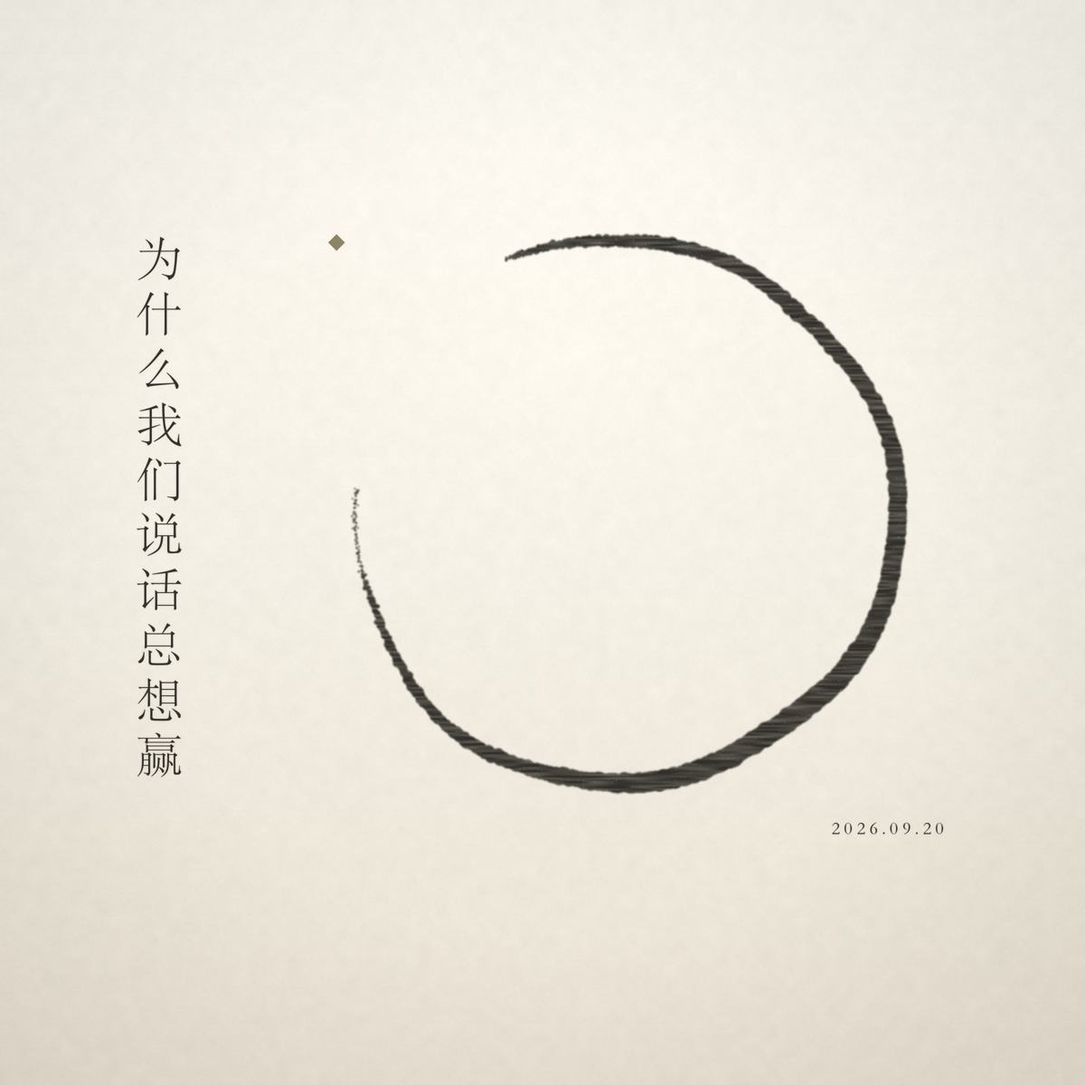
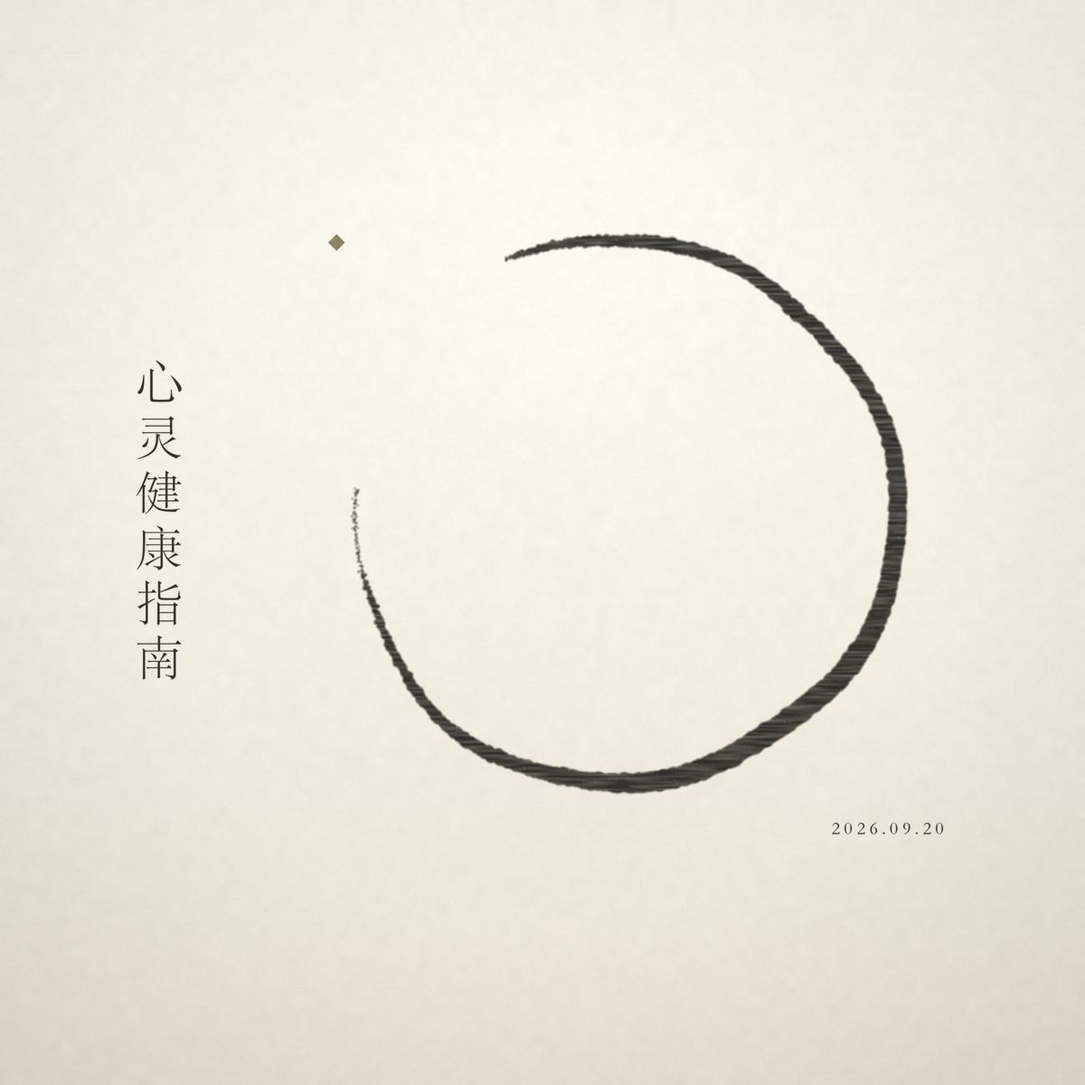
Deploying to gh-pages from @ XiaoCheng123/xiaocheng123.github.io@d7f1418c57a94d9e5b362c62e7cd2025c17e5cd7 🚀

Changed region(s): [[0.1233, 0.2158, 0.185, 0.7092]]

diff --git a/assets/index-f1d05fc9.js b/assets/index-f1d05fc9.js
@@ -3304,7 +3304,7 @@ No matching component was found for:
 	Copyright (c) 2018 Jed Watson.
 	Licensed under the MIT License (MIT), see
 	http://jedwatson.github.io/classnames
-*/(function(n){(function(){var e={}.hasOwnProperty;function t(){for(var i=[],r=0;r<arguments.length;r++){var s=arguments[r];if(s){var o=typeof s;if(o==="string"||o==="number")i.push(s);else if(Array.isArray(s)){if(s.length){var a=t.apply(null,s);a&&i.push(a)}}else if(o==="object"){if(s.toString!==Object.prototype.toString&&!s.toString.toString().includes("[native code]")){i.push(s.toString());continue}for(var l in s)e.call(s,l)&&s[l]&&i.push(l)}}}return i.join(" ")}n.exports?(t.default=t,n.exports=t):window.classNames=t})()})(FJ);var NJ=AS(I),mo=AS(ag),kJ=AS(mg);function AS(n){return n&&n.__esModule?n:{default:n}}const OJ=({animate:n=!0,className:e="",layout:t="2-columns",lineColor:i="#FFF",children:r})=>(typeof window=="object"&&document.documentElement.style.setProperty("--line-color",i),NJ.default.createElement("div",{className:(0,kJ.default)(e,"vertical-timeline",{"vertical-timeline--animate":n,"vertical-timeline--two-columns":t==="2-columns","vertical-timeline--one-column-left":t==="1-column"||t==="1-column-left","vertical-timeline--one-column-right":t==="1-column-right"})},r));OJ.propTypes={children:mo.default.oneOfType([mo.default.arrayOf(mo.default.node),mo.default.node]).isRequired,className:mo.default.string,animate:mo.default.bool,layout:mo.default.oneOf(["1-column-left","1-column","2-columns","1-column-right"]),lineColor:mo.default.string};function o_(){return o_=Object.assign||function(n){for(var e=1;e<arguments.length;e++){var t=arguments[e];for(var i in t)Object.prototype.hasOwnProperty.call(t,i)&&(n[i]=t[i])}return n},o_.apply(this,arguments)}function UJ(n,e){n.prototype=Object.create(e.prototype),n.prototype.constructor=n,a_(n,e)}function a_(n,e){return a_=Object.setPrototypeOf||function(i,r){return i.__proto__=r,i},a_(n,e)}function zJ(n,e){if(n==null)return{};var t={},i=Object.keys(n),r,s;for(s=0;s<i.length;s++)r=i[s],!(e.indexOf(r)>=0)&&(t[r]=n[r]);return t}var l_=new Map,tm=new WeakMap,Pb=0,VL=void 0;function GJ(n){VL=n}function HJ(n){return n?(tm.has(n)||(Pb+=1,tm.set(n,Pb.toString())),tm.get(n)):"0"}function VJ(n){return Object.keys(n).sort().filter(function(e){return n[e]!==void 0}).map(function(e){return e+"_"+(e==="root"?HJ(n.root):n[e])}).toString()}function WJ(n){var e=VJ(n),t=l_.get(e);if(!t){var i=new Map,r,s=new IntersectionObserver(function(o){o.forEach(function(a){var l,c=a.isIntersecting&&r.some(function(d){return a.intersectionRatio>=d});n.trackVisibility&&typeof a.isVisible>"u"&&(a.isVisible=c),(l=i.get(a.target))==null||l.forEach(function(d){d(c,a)})})},n);r=s.thresholds||(Array.isArray(n.threshold)?n.threshold:[n.threshold||0]),t={id:e,observer:s,elements:i},l_.set(e,t)}return t}function CS(n,e,t,i){if(t===void 0&&(t={}),i===void 0&&(i=VL),typeof window.IntersectionObserver>"u"&&i!==void 0){var r=n.getBoundingClientRect();return e(i,{isIntersecting:i,target:n,intersectionRatio:typeof t.threshold=="number"?t.threshold:0,time:0,boundingClientRect:r,intersectionRect:r,rootBounds:r}),function(){}}var s=WJ(t),o=s.id,a=s.observer,l=s.elements,c=l.get(n)||[];return l.has(n)||l.set(n,c),c.push(e),a.observe(n),function(){c.splice(c.indexOf(e),1),c.length===0&&(l.delete(n),a.unobserve(n)),l.size===0&&(a.disconnect(),l_.delete(o))}}var jJ=["children","as","triggerOnce","threshold","root","rootMargin","onChange","skip","trackVisibility","delay","initialInView","fallbackInView"];function Bb(n){return typeof n.children!="function"}var gg=function(n){UJ(e,n);function e(i){var r;return r=n.call(this,i)||this,r.node=null,r._unobserveCb=null,r.handleNode=function(s){r.node&&(r.unobserve(),!s&&!r.props.triggerOnce&&!r.props.skip&&r.setState({inView:!!r.props.initialInView,entry:void 0})),r.node=s||null,r.observeNode()},r.handleChange=function(s,o){s&&r.props.triggerOnce&&r.unobserve(),Bb(r.props)||r.setState({inView:s,entry:o}),r.props.onChange&&r.props.onChange(s,o)},r.state={inView:!!i.initialInView,entry:void 0},r}var t=e.prototype;return t.componentDidUpdate=function(r){(r.rootMargin!==this.props.rootMargin||r.root!==this.props.root||r.threshold!==this.props.threshold||r.skip!==this.props.skip||r.trackVisibility!==this.props.trackVisibility||r.delay!==this.props.delay)&&(this.unobserve(),this.observeNode())},t.componentWillUnmount=function(){this.unobserve(),this.node=null},t.observeNode=function(){if(!(!this.node||this.props.skip)){var r=this.props,s=r.threshold,o=r.root,a=r.rootMargin,l=r.trackVisibility,c=r.delay,d=r.fallbackInView;this._unobserveCb=CS(this.node,this.handleChange,{threshold:s,root:o,rootMargin:a,trackVisibility:l,delay:c},d)}},t.unobserve=function(){this._unobserveCb&&(this._unobserveCb(),this._unobserveCb=null)},t.render=function(){if(!Bb(this.props)){var r=this.state,s=r.inView,o=r.entry;return this.props.children({inView:s,entry:o,ref:this.handleNode})}var a=this.props,l=a.children,c=a.as,d=zJ(a,jJ);return I.createElement(c||"div",o_({ref:this.handleNode},d),l)},e}(I.Component);gg.displayName="InView";gg.defaultProps={threshold:0,triggerOnce:!1,initialInView:!1};function JJ(n){var e=n===void 0?{}:n,t=e.threshold,i=e.delay,r=e.trackVisibility,s=e.rootMargin,o=e.root,a=e.triggerOnce,l=e.skip,c=e.initialInView,d=e.fallbackInView,h=I.useRef(),p=I.useState({inView:!!c}),m=p[0],y=p[1],v=I.useCallback(function(_){h.current!==void 0&&(h.current(),h.current=void 0),!l&&_&&(h.current=CS(_,function(M,w){y({inView:M,entry:w}),w.isIntersecting&&a&&h.current&&(h.current(),h.current=void 0)},{root:o,rootMargin:s,threshold:t,trackVisibility:r,delay:i},d))},[Array.isArray(t)?t.toString():t,o,s,a,l,r,d,i]);I.useEffect(function(){!h.current&&m.entry&&!a&&!l&&y({inView:!!c})});var x=[v,m.inView,m.entry];return x.ref=x[0],x.inView=x[1],x.entry=x[2],x}const XJ=Object.freeze(Object.defineProperty({__proto__:null,InView:gg,default:gg,defaultFallbackInView:GJ,observe:CS,useInView:JJ},Symbol.toStringTag,{value:"Module"})),KJ=HI(XJ);var go=ES(I),Qt=ES(ag),nm=ES(mg),YJ=KJ;function ES(n){return n&&n.__esModule?n:{default:n}}const QJ=({children:n="",className:e="",contentArrowStyle:t=null,contentStyle:i=null,date:r="",dateClassName:s="",icon:o=null,iconClassName:a="",iconOnClick:l=null,onTimelineElementClick:c=null,iconStyle:d=null,id:h="",position:p="",style:m=null,textClassName:y="",intersectionObserverProps:v={rootMargin:"0px 0px -40px 0px",triggerOnce:!0},visible:x=!1})=>go.default.createElement(YJ.InView,v,({inView:_,ref:M})=>go.default.createElement("div",{ref:M,id:h,className:(0,nm.default)(e,"vertical-timeline-element",{"vertical-timeline-element--left":p==="left","vertical-timeline-element--right":p==="right","vertical-timeline-element--no-children":n===""}),style:m},go.default.createElement(go.default.Fragment,null,go.default.createElement("span",{style:d,onClick:l,className:(0,nm.default)(a,"vertical-timeline-element-icon",{"bounce-in":_||x,"is-hidden":!(_||x)})},o),go.default.createElement("div",{style:i,onClick:c,className:(0,nm.default)(y,"vertical-timeline-element-content",{"bounce-in":_||x,"is-hidden":!(_||x)})},go.default.createElement("div",{style:t,className:"vertical-timeline-element-content-arrow"}),n,go.default.createElement("span",{className:(0,nm.default)(s,"vertical-timeline-element-date")},r)))));QJ.propTypes={children:Qt.default.oneOfType([Qt.default.arrayOf(Qt.default.node),Qt.default.node]),className:Qt.default.string,contentArrowStyle:Qt.default.shape({}),contentStyle:Qt.default.shape({}),date:Qt.default.node,dateClassName:Qt.default.string,icon:Qt.default.element,iconClassName:Qt.default.string,iconStyle:Qt.default.shape({}),iconOnClick:Qt.default.func,onTimelineElementClick:Qt.default.func,id:Qt.default.string,position:Qt.default.string,style:Qt.default.shape({}),textClassName:Qt.default.string,visible:Qt.default.bool,intersectionObserverProps:Qt.default.shape({root:Qt.default.object,rootMargin:Qt.default.string,threshold:Qt.default.number,triggerOnce:Qt.default.bool})};const md={_origin:"https://api.emailjs.com"},ZJ=(n,e="https://api.emailjs.com")=>{md._userID=n,md._origin=e},WL=(n,e,t)=>{if(!n)throw"The public key is required. Visit https://dashboard.emailjs.com/admin/account";if(!e)throw"The service ID is required. Visit https://dashboard.emailjs.com/admin";if(!t)throw"The template ID is required. Visit https://dashboard.emailjs.com/admin/templates";return!0};class Rb{constructor(e){this.status=e?e.status:0,this.text=e?e.responseText:"Network Error"}}const jL=(n,e,t={})=>new Promise((i,r)=>{const s=new XMLHttpRequest;s.addEventListener("load",({target:o})=>{const a=new Rb(o);a.status===200||a.text==="OK"?i(a):r(a)}),s.addEventListener("error",({target:o})=>{r(new Rb(o))}),s.open("POST",md._origin+n,!0),Object.keys(t).forEach(o=>{s.setRequestHeader(o,t[o])}),s.send(e)}),qJ=(n,e,t,i)=>{const r=i||md._userID;return WL(r,n,e),jL("/api/v1.0/email/send",JSON.stringify({lib_version:"3.10.0",user_id:r,service_id:n,template_id:e,template_params:t}),{"Content-type":"application/json"})},$J=n=>{let e;if(typeof n=="string"?e=document.querySelector(n):e=n,!e||e.nodeName!=="FORM")throw"The 3rd parameter is expected to be the HTML form element or the style selector of form";return e},eX=(n,e,t,i)=>{const r=i||md._userID,s=$J(t);WL(r,n,e);const o=new FormData(s);return o.append("lib_version","3.10.0"),o.append("service_id",n),o.append("template_id",e),o.append("user_id",r),jL("/api/v1.0/email/send-form",o)},tX={init:ZJ,send:qJ,sendForm:eX},nX=()=>{const n=I.useRef(),[e,t]=I.useState({name:"",email:"",message:""}),[i,r]=I.useState(!1),s=a=>{const{name:l,value:c}=a.target;t({...e,[l]:c})},o=a=>{a.preventDefault(),r(!0),tX.send("service_14dqsuc","template_uh8ui7s",{form_name:e.name,to_name:"Xiaocheng",from_email:e.email,to_email:"contact@mail.com",message:e.message},"OcgvyN5NpkEfPi4KH").then(()=>{r(!1),alert("Thank you. I will get back to you as soon as possible."),t({name:"",email:"",message:""})},l=>{r(!1),console.log(l),alert("Something went wrong.")})};return qe("div",{className:"xl:mt-12 flex xl:flex-row flex-col-reverse gap-10 overflow-hidden",children:[qe(Dt.div,{variants:bb("left","tween",.2,1),className:"flex-[0.75] bg-black-100 p-8 rounded-2xl",children:[$("p",{className:Gs.sectionSubText,children:"Get in touch"}),$("h3",{className:Gs.sectionHeadText,children:"Contact."}),qe("form",{ref:n,onSubmit:o,className:"mt-12 flex flex-col gap-8",children:[qe("label",{className:"flex flex-col",children:[$("span",{className:"text-white font-medium mb-4",children:"Your Name"}),$("input",{type:"text",name:"name",value:e.name,onChange:s,placeholder:"What's your name?",className:"bg-tertiary py-4 px-6 placeholder:text-secondary text-white rounded-lg outline-none border-none font-medium"})]}),qe("label",{className:"flex flex-col",children:[$("span",{className:"text-white font-medium mb-4",children:"Your email"}),$("input",{type:"email",name:"email",value:e.email,onChange:s,placeholder:"What's your email?",className:"bg-tertiary py-4 px-6 placeholder:text-secondary text-white rounded-lg outline-none border-none font-medium"})]}),qe("label",{className:"flex flex-col",children:[$("span",{className:"text-white font-medium mb-4",children:"Your Message"}),$("textarea",{rows:7,name:"message",value:e.message,onChange:s,placeholder:"What do you want to say?",className:"bg-tertiary py-4 px-6 placeholder:text-secondary text-white rounded-lg outline-none border-none font-medium"})]}),$("button",{type:"submit",className:"bg-tertiary py-3 px-8 rounded-xl outline-none w-fit text-white font-bold shadow-md shadow-primary",children:i?"Sending...":"Send"})]})]}),$(Dt.div,{variants:bb("right","tween",.2,1),className:"xl:flex-1 xl:h-auto md:h-[550px] h-[350px]",children:$(x8,{})})]})},iX=HL(nX,"contact"),JL=[{slug:"2026-9-20",title:"为什么我们说话，总想赢",subtitle:"一个亚健康者的自白",date:"2026.09.20",location:"深圳 · 秋夜",cover:"/blog/2026-9-20-cover.jpg",shareCover:"/blog/2026-9-20-share.jpg",shareTitle:"为什么我们说话，总想赢",shareDesc:"逻辑不是钥匙，有时候它就是门栓。",excerpt:"我发现自己一直在用逻辑去堵住别人。后来才明白：一个人在情绪里的时候，你把道理讲得越对，他关得越紧。逻辑不是钥匙，有时候它就是门栓。",content:`有很长一段时间，我以为自己是个讲道理的人。
+*/(function(n){(function(){var e={}.hasOwnProperty;function t(){for(var i=[],r=0;r<arguments.length;r++){var s=arguments[r];if(s){var o=typeof s;if(o==="string"||o==="number")i.push(s);else if(Array.isArray(s)){if(s.length){var a=t.apply(null,s);a&&i.push(a)}}else if(o==="object"){if(s.toString!==Object.prototype.toString&&!s.toString.toString().includes("[native code]")){i.push(s.toString());continue}for(var l in s)e.call(s,l)&&s[l]&&i.push(l)}}}return i.join(" ")}n.exports?(t.default=t,n.exports=t):window.classNames=t})()})(FJ);var NJ=AS(I),mo=AS(ag),kJ=AS(mg);function AS(n){return n&&n.__esModule?n:{default:n}}const OJ=({animate:n=!0,className:e="",layout:t="2-columns",lineColor:i="#FFF",children:r})=>(typeof window=="object"&&document.documentElement.style.setProperty("--line-color",i),NJ.default.createElement("div",{className:(0,kJ.default)(e,"vertical-timeline",{"vertical-timeline--animate":n,"vertical-timeline--two-columns":t==="2-columns","vertical-timeline--one-column-left":t==="1-column"||t==="1-column-left","vertical-timeline--one-column-right":t==="1-column-right"})},r));OJ.propTypes={children:mo.default.oneOfType([mo.default.arrayOf(mo.default.node),mo.default.node]).isRequired,className:mo.default.string,animate:mo.default.bool,layout:mo.default.oneOf(["1-column-left","1-column","2-columns","1-column-right"]),lineColor:mo.default.string};function o_(){return o_=Object.assign||function(n){for(var e=1;e<arguments.length;e++){var t=arguments[e];for(var i in t)Object.prototype.hasOwnProperty.call(t,i)&&(n[i]=t[i])}return n},o_.apply(this,arguments)}function UJ(n,e){n.prototype=Object.create(e.prototype),n.prototype.constructor=n,a_(n,e)}function a_(n,e){return a_=Object.setPrototypeOf||function(i,r){return i.__proto__=r,i},a_(n,e)}function zJ(n,e){if(n==null)return{};var t={},i=Object.keys(n),r,s;for(s=0;s<i.length;s++)r=i[s],!(e.indexOf(r)>=0)&&(t[r]=n[r]);return t}var l_=new Map,tm=new WeakMap,Pb=0,VL=void 0;function GJ(n){VL=n}function HJ(n){return n?(tm.has(n)||(Pb+=1,tm.set(n,Pb.toString())),tm.get(n)):"0"}function VJ(n){return Object.keys(n).sort().filter(function(e){return n[e]!==void 0}).map(function(e){return e+"_"+(e==="root"?HJ(n.root):n[e])}).toString()}function WJ(n){var e=VJ(n),t=l_.get(e);if(!t){var i=new Map,r,s=new IntersectionObserver(function(o){o.forEach(function(a){var l,c=a.isIntersecting&&r.some(function(d){return a.intersectionRatio>=d});n.trackVisibility&&typeof a.isVisible>"u"&&(a.isVisible=c),(l=i.get(a.target))==null||l.forEach(function(d){d(c,a)})})},n);r=s.thresholds||(Array.isArray(n.threshold)?n.threshold:[n.threshold||0]),t={id:e,observer:s,elements:i},l_.set(e,t)}return t}function CS(n,e,t,i){if(t===void 0&&(t={}),i===void 0&&(i=VL),typeof window.IntersectionObserver>"u"&&i!==void 0){var r=n.getBoundingClientRect();return e(i,{isIntersecting:i,target:n,intersectionRatio:typeof t.threshold=="number"?t.threshold:0,time:0,boundingClientRect:r,intersectionRect:r,rootBounds:r}),function(){}}var s=WJ(t),o=s.id,a=s.observer,l=s.elements,c=l.get(n)||[];return l.has(n)||l.set(n,c),c.push(e),a.observe(n),function(){c.splice(c.indexOf(e),1),c.length===0&&(l.delete(n),a.unobserve(n)),l.size===0&&(a.disconnect(),l_.delete(o))}}var jJ=["children","as","triggerOnce","threshold","root","rootMargin","onChange","skip","trackVisibility","delay","initialInView","fallbackInView"];function Bb(n){return typeof n.children!="function"}var gg=function(n){UJ(e,n);function e(i){var r;return r=n.call(this,i)||this,r.node=null,r._unobserveCb=null,r.handleNode=function(s){r.node&&(r.unobserve(),!s&&!r.props.triggerOnce&&!r.props.skip&&r.setState({inView:!!r.props.initialInView,entry:void 0})),r.node=s||null,r.observeNode()},r.handleChange=function(s,o){s&&r.props.triggerOnce&&r.unobserve(),Bb(r.props)||r.setState({inView:s,entry:o}),r.props.onChange&&r.props.onChange(s,o)},r.state={inView:!!i.initialInView,entry:void 0},r}var t=e.prototype;return t.componentDidUpdate=function(r){(r.rootMargin!==this.props.rootMargin||r.root!==this.props.root||r.threshold!==this.props.threshold||r.skip!==this.props.skip||r.trackVisibility!==this.props.trackVisibility||r.delay!==this.props.delay)&&(this.unobserve(),this.observeNode())},t.componentWillUnmount=function(){this.unobserve(),this.node=null},t.observeNode=function(){if(!(!this.node||this.props.skip)){var r=this.props,s=r.threshold,o=r.root,a=r.rootMargin,l=r.trackVisibility,c=r.delay,d=r.fallbackInView;this._unobserveCb=CS(this.node,this.handleChange,{threshold:s,root:o,rootMargin:a,trackVisibility:l,delay:c},d)}},t.unobserve=function(){this._unobserveCb&&(this._unobserveCb(),this._unobserveCb=null)},t.render=function(){if(!Bb(this.props)){var r=this.state,s=r.inView,o=r.entry;return this.props.children({inView:s,entry:o,ref:this.handleNode})}var a=this.props,l=a.children,c=a.as,d=zJ(a,jJ);return I.createElement(c||"div",o_({ref:this.handleNode},d),l)},e}(I.Component);gg.displayName="InView";gg.defaultProps={threshold:0,triggerOnce:!1,initialInView:!1};function JJ(n){var e=n===void 0?{}:n,t=e.threshold,i=e.delay,r=e.trackVisibility,s=e.rootMargin,o=e.root,a=e.triggerOnce,l=e.skip,c=e.initialInView,d=e.fallbackInView,h=I.useRef(),p=I.useState({inView:!!c}),m=p[0],y=p[1],v=I.useCallback(function(_){h.current!==void 0&&(h.current(),h.current=void 0),!l&&_&&(h.current=CS(_,function(M,w){y({inView:M,entry:w}),w.isIntersecting&&a&&h.current&&(h.current(),h.current=void 0)},{root:o,rootMargin:s,threshold:t,trackVisibility:r,delay:i},d))},[Array.isArray(t)?t.toString():t,o,s,a,l,r,d,i]);I.useEffect(function(){!h.current&&m.entry&&!a&&!l&&y({inView:!!c})});var x=[v,m.inView,m.entry];return x.ref=x[0],x.inView=x[1],x.entry=x[2],x}const XJ=Object.freeze(Object.defineProperty({__proto__:null,InView:gg,default:gg,defaultFallbackInView:GJ,observe:CS,useInView:JJ},Symbol.toStringTag,{value:"Module"})),KJ=HI(XJ);var go=ES(I),Qt=ES(ag),nm=ES(mg),YJ=KJ;function ES(n){return n&&n.__esModule?n:{default:n}}const QJ=({children:n="",className:e="",contentArrowStyle:t=null,contentStyle:i=null,date:r="",dateClassName:s="",icon:o=null,iconClassName:a="",iconOnClick:l=null,onTimelineElementClick:c=null,iconStyle:d=null,id:h="",position:p="",style:m=null,textClassName:y="",intersectionObserverProps:v={rootMargin:"0px 0px -40px 0px",triggerOnce:!0},visible:x=!1})=>go.default.createElement(YJ.InView,v,({inView:_,ref:M})=>go.default.createElement("div",{ref:M,id:h,className:(0,nm.default)(e,"vertical-timeline-element",{"vertical-timeline-element--left":p==="left","vertical-timeline-element--right":p==="right","vertical-timeline-element--no-children":n===""}),style:m},go.default.createElement(go.default.Fragment,null,go.default.createElement("span",{style:d,onClick:l,className:(0,nm.default)(a,"vertical-timeline-element-icon",{"bounce-in":_||x,"is-hidden":!(_||x)})},o),go.default.createElement("div",{style:i,onClick:c,className:(0,nm.default)(y,"vertical-timeline-element-content",{"bounce-in":_||x,"is-hidden":!(_||x)})},go.default.createElement("div",{style:t,className:"vertical-timeline-element-content-arrow"}),n,go.default.createElement("span",{className:(0,nm.default)(s,"vertical-timeline-element-date")},r)))));QJ.propTypes={children:Qt.default.oneOfType([Qt.default.arrayOf(Qt.default.node),Qt.default.node]),className:Qt.default.string,contentArrowStyle:Qt.default.shape({}),contentStyle:Qt.default.shape({}),date:Qt.default.node,dateClassName:Qt.default.string,icon:Qt.default.element,iconClassName:Qt.default.string,iconStyle:Qt.default.shape({}),iconOnClick:Qt.default.func,onTimelineElementClick:Qt.default.func,id:Qt.default.string,position:Qt.default.string,style:Qt.default.shape({}),textClassName:Qt.default.string,visible:Qt.default.bool,intersectionObserverProps:Qt.default.shape({root:Qt.default.object,rootMargin:Qt.default.string,threshold:Qt.default.number,triggerOnce:Qt.default.bool})};const md={_origin:"https://api.emailjs.com"},ZJ=(n,e="https://api.emailjs.com")=>{md._userID=n,md._origin=e},WL=(n,e,t)=>{if(!n)throw"The public key is required. Visit https://dashboard.emailjs.com/admin/account";if(!e)throw"The service ID is required. Visit https://dashboard.emailjs.com/admin";if(!t)throw"The template ID is required. Visit https://dashboard.emailjs.com/admin/templates";return!0};class Rb{constructor(e){this.status=e?e.status:0,this.text=e?e.responseText:"Network Error"}}const jL=(n,e,t={})=>new Promise((i,r)=>{const s=new XMLHttpRequest;s.addEventListener("load",({target:o})=>{const a=new Rb(o);a.status===200||a.text==="OK"?i(a):r(a)}),s.addEventListener("error",({target:o})=>{r(new Rb(o))}),s.open("POST",md._origin+n,!0),Object.keys(t).forEach(o=>{s.setRequestHeader(o,t[o])}),s.send(e)}),qJ=(n,e,t,i)=>{const r=i||md._userID;return WL(r,n,e),jL("/api/v1.0/email/send",JSON.stringify({lib_version:"3.10.0",user_id:r,service_id:n,template_id:e,template_params:t}),{"Content-type":"application/json"})},$J=n=>{let e;if(typeof n=="string"?e=document.querySelector(n):e=n,!e||e.nodeName!=="FORM")throw"The 3rd parameter is expected to be the HTML form element or the style selector of form";return e},eX=(n,e,t,i)=>{const r=i||md._userID,s=$J(t);WL(r,n,e);const o=new FormData(s);return o.append("lib_version","3.10.0"),o.append("service_id",n),o.append("template_id",e),o.append("user_id",r),jL("/api/v1.0/email/send-form",o)},tX={init:ZJ,send:qJ,sendForm:eX},nX=()=>{const n=I.useRef(),[e,t]=I.useState({name:"",email:"",message:""}),[i,r]=I.useState(!1),s=a=>{const{name:l,value:c}=a.target;t({...e,[l]:c})},o=a=>{a.preventDefault(),r(!0),tX.send("service_14dqsuc","template_uh8ui7s",{form_name:e.name,to_name:"Xiaocheng",from_email:e.email,to_email:"contact@mail.com",message:e.message},"OcgvyN5NpkEfPi4KH").then(()=>{r(!1),alert("Thank you. I will get back to you as soon as possible."),t({name:"",email:"",message:""})},l=>{r(!1),console.log(l),alert("Something went wrong.")})};return qe("div",{className:"xl:mt-12 flex xl:flex-row flex-col-reverse gap-10 overflow-hidden",children:[qe(Dt.div,{variants:bb("left","tween",.2,1),className:"flex-[0.75] bg-black-100 p-8 rounded-2xl",children:[$("p",{className:Gs.sectionSubText,children:"Get in touch"}),$("h3",{className:Gs.sectionHeadText,children:"Contact."}),qe("form",{ref:n,onSubmit:o,className:"mt-12 flex flex-col gap-8",children:[qe("label",{className:"flex flex-col",children:[$("span",{className:"text-white font-medium mb-4",children:"Your Name"}),$("input",{type:"text",name:"name",value:e.name,onChange:s,placeholder:"What's your name?",className:"bg-tertiary py-4 px-6 placeholder:text-secondary text-white rounded-lg outline-none border-none font-medium"})]}),qe("label",{className:"flex flex-col",children:[$("span",{className:"text-white font-medium mb-4",children:"Your email"}),$("input",{type:"email",name:"email",value:e.email,onChange:s,placeholder:"What's your email?",className:"bg-tertiary py-4 px-6 placeholder:text-secondary text-white rounded-lg outline-none border-none font-medium"})]}),qe("label",{className:"flex flex-col",children:[$("span",{className:"text-white font-medium mb-4",children:"Your Message"}),$("textarea",{rows:7,name:"message",value:e.message,onChange:s,placeholder:"What do you want to say?",className:"bg-tertiary py-4 px-6 placeholder:text-secondary text-white rounded-lg outline-none border-none font-medium"})]}),$("button",{type:"submit",className:"bg-tertiary py-3 px-8 rounded-xl outline-none w-fit text-white font-bold shadow-md shadow-primary",children:i?"Sending...":"Send"})]})]}),$(Dt.div,{variants:bb("right","tween",.2,1),className:"xl:flex-1 xl:h-auto md:h-[550px] h-[350px]",children:$(x8,{})})]})},iX=HL(nX,"contact"),JL=[{slug:"2026-9-20",title:"心灵健康指南",subtitle:"从亚健康到生病，中间隔着什么",date:"2026.09.20",location:"深圳 · 秋夜",cover:"/blog/2026-9-20-cover.jpg",shareCover:"/blog/2026-9-20-share.jpg",shareTitle:"心灵健康指南",shareDesc:"我们把道理讲得越对，对方关得越紧。一份写给亚健康者的心灵健康指南。",excerpt:"我一直以为自己是个讲道理的人，后来才发现，逻辑有时候不是钥匙，是门栓。这篇文章从一段自己的经历出发：往外看一层，是我们共同的说话方式；往里看一层，是心灵怎么一点点变累的；最后落到一份尽量能用、也尽量科学的指南。",content:`有很长一段时间，我以为自己是个讲道理的人。
 
 别人跟我诉苦，我先去找他话里的漏洞；别人情绪上来，我就一条一条把事实摆回去。我不觉得自己冷漠——恰恰相反，我觉得自己很负责：事情说清楚了，人才能好起来。
 
@@ -3312,9 +3312,13 @@ No matching component was found for:
 
 逻辑不是钥匙，有时候它就是门栓。
 
+这件事让我想了很久。先是想自己，再想我们这些说话的人，最后想到身体里到底发生了什么。
+
+所以下面分成三层：往外看一层，是我们共同的说话方式；往里看一层，是心灵是怎么一点点变累的。最后，落到一份尽量写得科学、也尽量能用的指南。
+
 ———
 
-一　我以为我在帮他
+一　起点：我用道理堵住了一个人
 
 我当时想得很简单：如果你说的事情不符合事实，那我把它纠正过来，你的痛苦就应该减轻一点。在我的世界里，这叫讲逻辑。
 
@@ -3326,29 +3330,7 @@ No matching component was found for:
 
 ———
 
-二　家里有人生病之后
-
-家里有人生病之后，我才开始真正去了解这些事。我老哥是全科医生，我去问他，他给我讲过一个很好记的分法。
-
-他说，精神疾病大致可以看成两条线：
-
-一条是认知出了问题——偏执，坚信一些旁人无法理解的东西，精神分裂常在这条线上；
-
-另一条是情感出了问题——情绪像脱了缰，一会儿在谷底，一会儿在峰顶，双相常在这条线上。
-
-这个分法很好记，我把它当成家人给我画的一张草图。但草图不是地图，更不能当尺子。抑郁、焦虑、PTSD、强迫，都塞不进这个框；双相的人也常常有认知上的损伤，精神分裂的人也常有情绪上的症状。医生面对的是一个人，不是一个标签。
-
-更要紧的是下面这一句，我花了很久才真的接受：
-
-他不是不想控制，他是控制不住。
-
-我一开始总以为，只要把道理讲通，他就能“想明白”；“想明白”了，就能“控制住”。这是我对生病这件事最大的误解。双相是一种有生理基础的病，是可以用药物控制的——像糖尿病需要胰岛素一样，它需要的不是更努力，是治疗。
-
-我用了很长时间，才把两件事分开：我可以跟一个观点不同的人讲道理，但我没有任何办法，用讲道理治好一个病人。
-
-———
-
-三　这不是我一个人的毛病
+二　往外看一层：这不是我一个人的毛病
 
 后来我往外看，发现这件事比我以为的大得多。
 
@@ -3368,7 +3350,7 @@ No matching component was found for:
 
 ———
 
-四　为什么我们明明知道，却做不到
+三　再往下看一层：为什么我们明明知道，却做不到
 
 看到这里，你大概和我一样，已经在心里点头了。
 
@@ -3384,17 +3366,77 @@ No matching component was found for:
 
 还有一层：我们从小就是在被反驳里长大的。一个人如果在小饭桌上被否定过很多次，长大以后就很难不反驳——因为在他的经验里，不反驳，就等着被否定。
 
-这不是性格问题。这是被训练出来的条件反射。
+这不是性格问题，也不是修养问题。这是被环境训练出来的条件反射。
 
 ———
 
-五　我有病吗
+四　往里看一层：心灵是怎么一点点变累的
+
+到这一步，我想知道的已经不只是“我该怎么说话”，而是“我们身上到底发生了什么”。
+
+我不是医生。下面这几件事，是我这段时间查到的，它们能解释前面写到的那些现象。
+
+第一件：我们的身体里，有一套为“逃跑”设计的系统。
+
+遇到威胁的时候，身体会自动进入应激状态：心跳加快，呼吸变浅，肌肉绷紧，注意力收窄到眼前的危险上。这套反应在真正的危险里能救命。它的问题在于，它分不清“老虎”和“一句难听的话”。
+
+短跑用它，是好事；一直开着，就变成消耗。长期处在应激里，人容易失眠、烦躁、记不住事，身体各处不舒服却查不出毛病。我们说的“亚健康”，很多就发生在这里。
+
+第二件：情绪和理性，不是同时上岗的。
+
+情绪的反应比推理快得多。有一种通俗的说法叫“杏仁核劫持”：情绪被点燃的时候，负责警报的那部分会先接管，负责推理和克制的那部分要靠后才慢慢恢复。
+
+所以“先处理情绪，再处理事情”不是一句客套话，它是顺序问题。一个人正在情绪的峰顶上，你讲的道理他其实接不住——他不是不讲理，是那一刻讲不了。
+
+第三件：直接反驳，会让人更固执。
+
+心理咨询里有一种方法叫动机式访谈。它有一条经验：当一个人被直接纠正的时候，会本能地为自己的立场辩护；你越是站在正确的一边，他越往反方向走。所以咨询师宁可复述对方的话，也不跟对方辩论。
+
+看到这里我才明白，我和他之间那堵墙，不是他砌的，是我砌的。
+
+第四件：把情绪说出来，它本身就会变轻。
+
+有研究发现，给情绪命个名——“我现在很生气”“我有点害怕”——这个动作本身就能降低情绪的强度。情绪模糊的时候最吓人；一旦被叫出名字，它就从一件笼罩你全身的事，变成一件可以放在桌上的事。
+
+第五件：长期没有能说话的人，是一种风险。
+
+人不是靠意志独自扛住一切的。有可以倾诉、不会立刻被评判的关系，是心理健康最基本的缓冲垫之一。反过来说，一个人如果所有的话都要在心里过一遍才敢说，他那杯水就会一直满着。
+
+———
+
+五　亚健康和病，隔着什么
 
 这几年，抑郁、焦虑、精分、狂躁、PTSD这些词越来越常听见，多到有点吓人。
 
 很多人会问：这些到底是怎么来的？我们又是什么时候变成这样的？
 
-我不知道答案，也不敢乱答。但我知道一件事：绝大多数人并不在“病”的那一侧，而是在中间那一层——很累，睡不好，容易烦，控制不住说一些伤人的话，但还能上班，还能笑，还能撑住。
+先说一句实话：“亚健康”不是医学上的诊断名词。它不是病，也不是健康的反面，它只是一个很好用的日常说法，意思是“我还没到病的程度，但也不算健康”。
+
+再说一件我理解错了很久的事：精神障碍不是两条线，是一个谱系。
+
+我是最近才慢慢了解到这些的。我老哥是全科医生，我去问他，他给我画过一张草图：认知出问题是一条线，情感出问题是一条线——偏执、坚信旁人无法理解的东西，精神分裂常在这条线上；情绪像脱了缰，一会儿谷底一会儿峰顶，双相常在这条线上。
+
+这张草图很好记，但它不是地图。
+
+临床上不是这么分的。医生按症状群分类：心境障碍、焦虑障碍、物质使用障碍、精神分裂症谱系、进食障碍等等，而且一个人身上常常同时有几样，这叫共病。抑郁、焦虑、PTSD、强迫，都装不进那两条线里；双相的人也常带着认知上的损伤。医生面对的是一个人，不是一个标签。
+
+那么医生怎么判断一个人是在亚健康这一层，还是已经生病了？通常看三件事：
+
+症状持续了多久，本人有多痛苦，功能有没有受损。
+
+第三条最要紧。所谓功能受损，就是“我想正常过日子，但我做不到了”——睡不着，吃不下，上不了班，维持不了关系。亚健康是“我还能正常过日子，只是很累”；病是“我做不到了”。
+
+这个病有多大？有两个数字，可以放在一起看。
+
+一个是世界卫生组织的估计：2023 年，全球有 4.7 亿人受焦虑障碍困扰，3.22 亿人受抑郁困扰，约 3600 万人患双相情感障碍，约 2700 万人患精神分裂症。
+
+另一个来自中国。2012 年启动的中国精神卫生调查，在全国 31 个省、157 个调查点访问了 32552 名成年人，结果 2019 年发表在《柳叶刀·精神病学》上：任何一类精神障碍的终生患病率是 16.6%——大约每六个人里，就有一个人在一生中经历过精神障碍；最近 12 个月内的患病率是 9.3%。其中最常见的一类是焦虑障碍。
+
+这里要补一句，不然容易被误读：这些数字不能直接读成“人越来越疯了”。同一份研究把结果和过去的调查放在一起比较——1982 年的终生患病率是 1.3%，2002 年是 13.2%，看上去像一条陡峭的上升曲线。可是这四十年里，诊断标准换过版本，调查工具、访谈方式、人们愿不愿意说，全都变了。数字的变化里，有多少是真的有更多人生病，有多少只是我们现在终于能看见、也敢说出来了，没有人能算得清楚。
+
+所以“我们是什么时候变成这样的”，我给不出一个干净的答案。我只能说：这不是哪一年突然发生的事，是一代人在同一种环境里，慢慢长成的样子。
+
+但有件事我可以说得确定：绝大多数人并不在“病”的那一侧，而是在中间那一层——很累，睡不好，容易烦，控制不住说一些伤人的话，但还能上班，还能笑，还能撑住。
 
 我自己就在这一层。
 
@@ -3406,19 +3448,19 @@ No matching component was found for:
 
 反过来，一个快要溢出来的人，他不是坏。他只是满了。
 
-至于亚健康和病的分界，我自己的感觉是：亚健康是“我还能正常过日子，只是很累”；病是“我想正常过日子，但我做不到了”。如果已经长期睡不着、吃不下、上不了班，或者出现伤害自己的念头，那这就不再是说话方式的问题了，去找医生。看医生，和感冒了去看医生，是一回事。
+还有一个数字我查不到，但每个人都能感觉到：生病的人里，真正去看医生的只是一部分。原因说来也平常——觉得丢人，觉得没用，觉得“这就是性格问题”，或者身边根本没有这样的医生。
 
 ———
 
-六　那么，从哪一句话开始
+六　指南（上）：七件能自己做的事
 
-如果你跟我差不多，还在亚健康这一层，想往回走一点，我能想到的，是下面这些很笨的动作。
+如果你还在亚健康这一层，想往回走一点，下面是七件很笨、但今天就能开始做的事。
 
 第一个：先复述，再表达。
 
 听到一句让你不舒服的话，先别急着说“不是”。先说一句：“你的意思是……对吗？”
 
-这句话看着像废话，但它有用。它不是话术，它是一个刹车。反射要用另一个动作去替换，不能用决心去硬压。
+这句话看着像废话，但它有用。它不是话术，它是一个刹车。心理学上把这件事做到极致的，叫“反映式倾听”——先让对方确认你真的听懂了他，后面的谈话才谈得下去。反射要用另一个动作去替换，不能用决心去硬压。
 
 第二个：把“接住情绪”和“同意观点”分开。
 
@@ -3428,21 +3470,35 @@ No matching component was found for:
 
 问一个具体的问题，比讲一个道理更接近人。比如：“那天到底发生了什么？”一个人被问的时候，他会往自己里面看；一个人被讲道理的时候，他只会往外面看——看怎么防住你。
 
-第四个：允许自己不全对。
+第四个：给自己发出来的情绪命名。
+
+不只是接住别人，也接住自己。心里堵的时候，先试着说清楚它到底是什么：“我现在是被否定的那种害怕，不只是生气。”能叫出名字的情绪，通常没那么吓人。写下来也算。
+
+第五个：允许自己不全对。
 
 我后来发现，自己反驳得最凶的时候，往往不是我最确信的时候，而恰恰是我最不确定的时候。真正站得住的人，不太需要把别人按下去。
 
-第五个：对正在情绪里的人，别讲道理，先给情绪让一个位置。
+第六个：守住身体这一层的地基。
 
-如果他是你的家人，而且正在发作，那就不辩论、不纠正，也不要要求他“讲道理”。那个时刻他确实讲不了。你能做的事情是：在旁边，把话说短，把他送到能帮他的地方。
+睡眠、运动、晒太阳、按时吃饭，这些听起来最不像“心理学”的建议，恰恰是最底层的。长期睡不好的人，情绪调节的能力会先垮下来。如果只能先改一件事，我选睡眠。
 
-第六个：对放不下的恨，试着写下来。
+第七个：留住至少一个不用过脑子就能说话的人。
 
-恨放不下，常常是因为那件事一直没有被说完。写下来不用给任何人看，只是把它从脑子里搬到纸上。搬出来一部分，它在脑子里就轻一点。
+不需要很多，一个就够。那种你说完之后，不用担心被评判、被反驳、被拿去当谈资的关系，是心理健康的底盘。
 
-第七个：记得那道门槛。
+———
 
-上面这些，都是给还有余量的人的。如果连睡眠和基本生活都守不住，那不是换几句话能解决的事。看医生，不丢人。
+七　指南（下）：什么时候必须交给医生
+
+上面这些，都是给还有余量的人的。指南的另一半，是知道自己这双手能够到哪里。
+
+如果那个正在情绪里的人是你的家人，而且在发作——不辩论，不纠正，也不要要求他“讲道理”。那个时刻他确实讲不了。你能做的事情是：在旁边，把话说短，把刺激降下来，然后把他送到能帮他的地方。
+
+如果那个人是你自己：症状持续两周以上，明显影响了睡觉、吃饭、工作和关系，或者出现了伤害自己的念头，那就别再自己扛了。去精神科或者心理科，这不是软弱，和你感冒了去看医生是一回事。全国统一的心理援助热线是 12356，需要的时候可以打。
+
+还有一句要紧的：对双相情感障碍这样的疾病，药物是治疗的基础，心理支持和生活规律是配合。它需要的不是更努力，是治疗。这一点我用了很久才真的接受。
+
+最后，照顾人的那个人也要被照顾。照顾一个生病的人很消耗，你也需要有能说话的人，也要允许自己有撑不住的时候。
 
 ———
 
@@ -3460,7 +3516,17 @@ No matching component was found for:
 
 “你是不是，很难受？”
 
-然后闭上嘴，把人接住。`},{slug:"2026-7-22",title:"写给自己",subtitle:"带着一点点无畏，继续出发。",date:"2026.07.22",location:"深圳 · 夏夜",cover:"/blog/2026-7-22-cover.jpg",shareCover:"/blog/2026-7-22-share.jpg",shareTitle:"写给自己",shareDesc:"人生不是一片旷野吗？可为什么走着走着，大家却都走上了相似的路。",excerpt:"人生不是一片旷野吗？可为什么走着走着，大家却都走上了相似的路。那么，就请带着一点点无畏，继续出发。",content:`人生不是一片旷野吗？
+然后闭上嘴，把人接住。
+
+———
+
+附　文中数据来源
+
+世界卫生组织《精神障碍实况报道》，2023 年数据：全球焦虑障碍 4.7 亿人，抑郁 3.22 亿人，双相情感障碍约 3600 万人，精神分裂症约 2700 万人。
+
+Huang Y, et al. Prevalence of mental disorders in China: a cross-sectional epidemiological study. The Lancet Psychiatry, 2019, 6(3): 211-224.（中国精神卫生调查，覆盖全国 31 个省、32552 名成年人）
+
+最后说明一句：我不是医生。这篇文章是一个普通人的整理，不是医学建议，诊断和治疗请交给医生。`},{slug:"2026-7-22",title:"写给自己",subtitle:"带着一点点无畏，继续出发。",date:"2026.07.22",location:"深圳 · 夏夜",cover:"/blog/2026-7-22-cover.jpg",shareCover:"/blog/2026-7-22-share.jpg",shareTitle:"写给自己",shareDesc:"人生不是一片旷野吗？可为什么走着走着，大家却都走上了相似的路。",excerpt:"人生不是一片旷野吗？可为什么走着走着，大家却都走上了相似的路。那么，就请带着一点点无畏，继续出发。",content:`人生不是一片旷野吗？
 
 可为什么走着走着，大家却都走上了相似的路。
 

diff --git a/index.html b/index.html
@@ -7,20 +7,20 @@
     <meta name="theme-color" content="#f7f4ec" />
 
     <!-- 默认社交分享卡片（详情页会运行时覆盖） -->
-    <meta name="description" content="为什么我们说话，总想赢 · Xiaocheng 的日志" />
+    <meta name="description" content="心灵健康指南 · Xiaocheng 的日志" />
     <meta property="og:type" content="website" />
     <meta property="og:site_name" content="Xiaocheng Blog" />
-    <meta property="og:title" content="为什么我们说话，总想赢" />
-    <meta property="og:description" content="逻辑不是钥匙，有时候它就是门栓。" />
+    <meta property="og:title" content="心灵健康指南" />
+    <meta property="og:description" content="从亚健康到生病，中间隔着什么。" />
     <meta property="og:image" content="https://xiaocheng123.github.io/blog/2026-9-20-share.jpg" />
     <meta property="og:url" content="https://xiaocheng123.github.io/" />
     <meta name="twitter:card" content="summary_large_image" />
-    <meta name="twitter:title" content="为什么我们说话，总想赢" />
-    <meta name="twitter:description" content="逻辑不是钥匙，有时候它就是门栓。" />
+    <meta name="twitter:title" content="心灵健康指南" />
+    <meta name="twitter:description" content="从亚健康到生病，中间隔着什么。" />
     <meta name="twitter:image" content="https://xiaocheng123.github.io/blog/2026-9-20-share.jpg" />
 
-    <title>为什么我们说话，总想赢 · Xiaocheng Blog</title>
-    <script type="module" crossorigin src="/assets/index-c6145ead.js"></script>
+    <title>心灵健康指南 · Xiaocheng Blog</title>
+    <script type="module" crossorigin src="/assets/index-f1d05fc9.js"></script>
     <link rel="stylesheet" href="/assets/index-0742d1a9.css">
   </head>
   <body>
